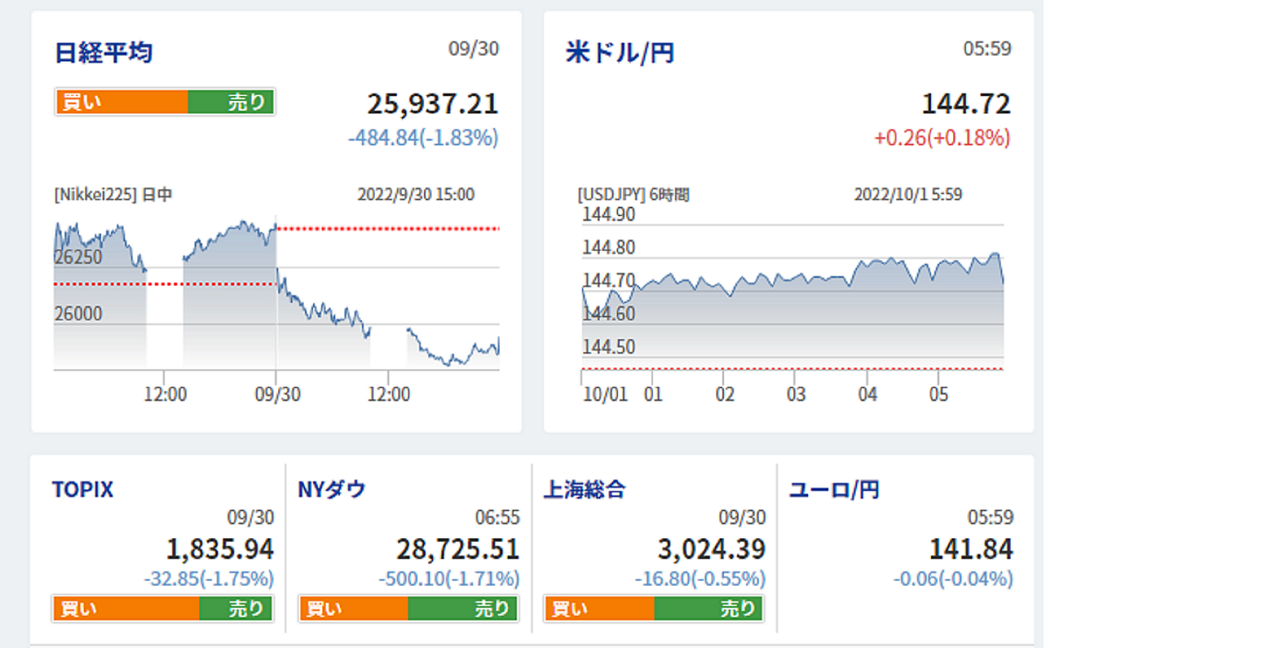
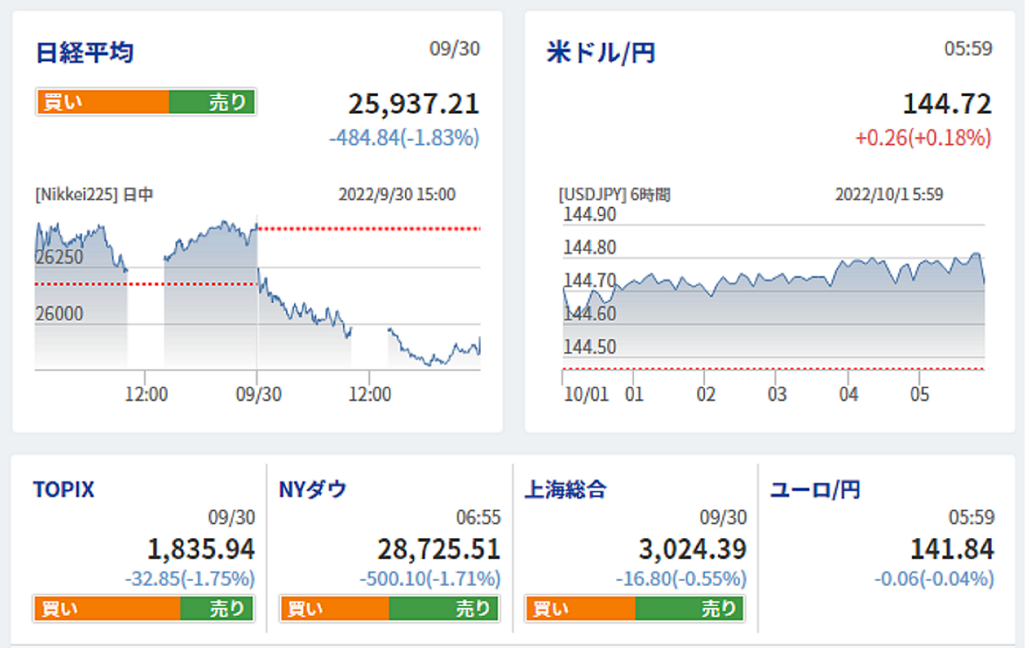
村本_12/12_編集

diff --git a/JavaScript/p/chat.js b/JavaScript/p/chat.js
@@ -66,8 +66,8 @@ function onLoad() {
 let text = new Array("株式会社ウォルトエンジンからきた返信メールを確認し、参加希望の説明会の日付に関する返信メールを送ってください",
                     "資料「projectXX」に任意のパスワードを任意の設定してください",
                     "資料「projectXX」を添付して、BCCにstockmoney株式会社を設定し、aiupro株式会社へ送信してください<br>設定したパスワードをメールで伝えてください",
-                    "株価サイトを検索し、「日経平均.米ドル/円.TOPIX.NYダウ.上海総合.ユーロ円」レートの金額を資料「ExchangeRate」に全てしてください",
-                    "ニュースサイトを検索し、来週のイベントを調査し、10月に決算を発表する会社を資料「10_Company」に書き込んでください",
+                    "検索エンジンから株価サイトを検索し、「日経平均.米ドル/円.TOPIX.NYダウ.上海総合.ユーロ円」レートの金額を資料「ExchangeRate」に全てしてください",
+                    "検索エンジンからニュースサイトを検索し、来週のイベント調査を行い、10月のイベントを資料「10_Company」に書き込んでください",
                     "メールアプリ、チャットアプリのパスワードを任意のパスワードに変更してください",
                     "朝の作業はこれで以上になります。デスクトップ画面からPCをシャットダウンしてください",
                     );

diff --git a/CSS/p/mbrowse.css b/CSS/p/mbrowse.css
@@ -31,3 +31,28 @@ body{
     margin-right: 10px;
     
 }
+.music{
+    position: relative;
+    left: 160px;
+    width: 150px;
+    height: 50px;
+    font-size: 15px;
+    font-weight: bold;
+    border-radius: 9px;
+    background-color: #33CC00;
+    color: #000000;
+    border-color: #33CC00;
+
+}
+.rakuten{
+    position: relative;
+    left: 160px;
+    width: 200px;
+    height: 50px;
+    font-size: 15px;
+    font-weight: bold;
+    border-radius: 9px;
+    color: #ffff;
+    background-color: #FF0000;
+    border-color: #FF0000;
+}

diff --git a/HTML/p/stockpriceg.html b/HTML/p/stockpriceg.html
@@ -15,10 +15,7 @@
     <h1>株価サイト</h1>
 
     <div class="news">
-        <img src="../../material/image/p/stockpriceg.png" alt="画像" usemap="#hoge">
-        <map name="hoge">
-            <area shape="rect" coords="340,1000,750,1400" href="../../HTML/p/stockprice.html">
-        </map>
+        <img class=stockt src="../../material/image/p/stockprice.png" alt="画像">
     </div>
 </body>
 </html>

diff --git a/HTML/p/newsg.html b/HTML/p/newsg.html
@@ -15,10 +15,7 @@
 
     <div class="news">
 
-        <img src="../../material/image/p/newsg.png" alt="画像" usemap="#hoge" >
-        <map name="hoge">
-            <area shape="rect" coords="475,320,760,345" href="../../HTML/p/news.html">
-        </map>
+        <img src="../../material/image/p/news.png" alt="画像">
     </div>
 </body>
 

diff --git a/HTML/p/news.html b/HTML/p/news.html
@@ -1,4 +1,4 @@
-<!DOCTYPE html>
+<!-- <!DOCTYPE html>
 <html lang="jp">
 <head>
     <meta charset="UTF-8">
@@ -13,4 +13,4 @@
         <img src="../../material/image/p/news.png" >
     </div>
 </body>
-</html>
+</html> -->

diff --git a/CSS/p/newsg.css b/CSS/p/newsg.css
@@ -5,10 +5,7 @@ h1{
     text-align: center;
 }
 .news{
-    position: absolute; left: 0%; top: 20%;
-    width: auto;
-    height: auto;
-}
-.news img{
+    text-align: center;
     width: 100%;
+    height: auto;
 }

diff --git a/CSS/p/stockpriceg.css b/CSS/p/stockpriceg.css
@@ -2,10 +2,5 @@ h1{
     text-align: center;
 }
 .news{
-    position: absolute; left: 0%; top: 20%;
-    width: auto;
-    height: auto;
-}
-.news img{
-    width: 100%;
+    text-align: center;
 }

diff --git a/HTML/p/stockprice.html b/HTML/p/stockprice.html
@@ -1,4 +1,4 @@
-<!DOCTYPE html>
+<!-- <!DOCTYPE html>
 <html lang="ja">
 <head>
     <meta charset="UTF-8">
@@ -15,4 +15,4 @@
     </div>
 </body>
 </html>
-
+ -->

diff --git a/CSS/p/stockprice.css b/CSS/p/stockprice.css
@@ -1,5 +1,5 @@
-.stockinfo{
+/* .stockinfo{
     position: absolute; left: 25%; top: 20%;
     width: auto;
     height: auto;
-}
+} */

diff --git a/CSS/p/news.css b/CSS/p/news.css
@@ -1,5 +1,5 @@
-.stockinfo{
+/* .stockinfo{
     position: absolute; left: 25%;
     width: auto;
     height: auto;
-}
+} */
